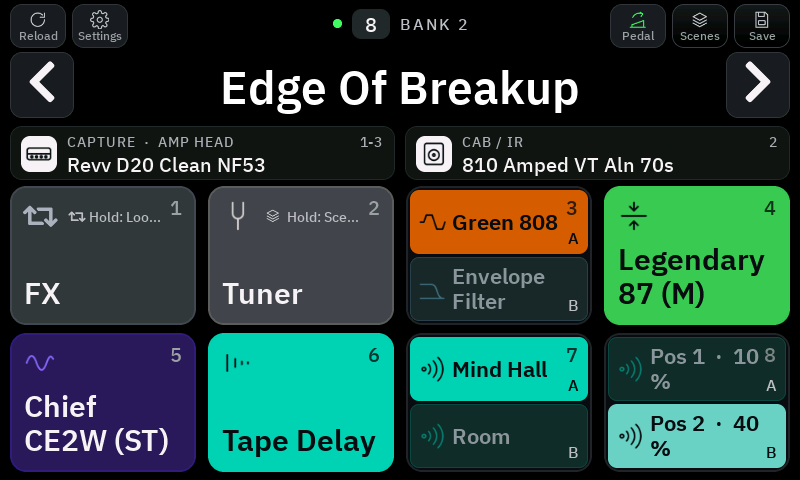
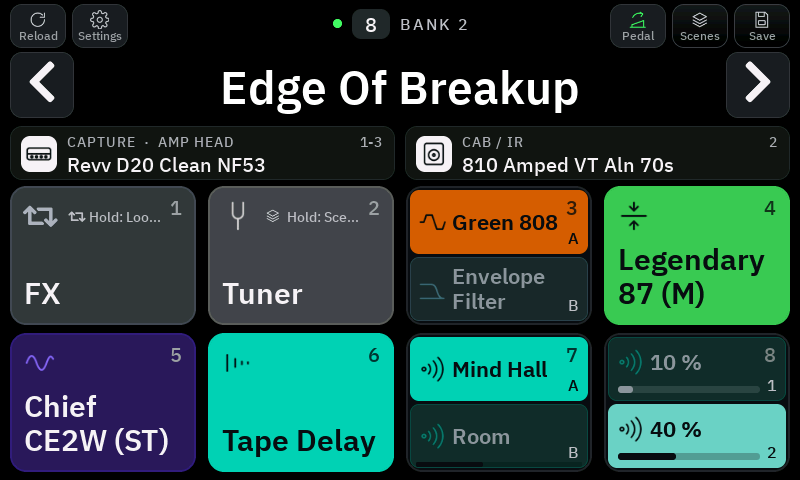
Editor strip shows A / B again; reverb mix as halves with per cent and bars, the reverb tile follows
The board sent the editor the texts on its screen: since the calm tiles the
captions were empty and an A / B tile had no name at all. Now the caption the
tile was given goes out, and a tile in two halves as two rows "A  name" /
"B  name" with the running one marked.

Footswitch 8 as the mix switch: the tile in two halves, Pos 1 / Pos 2 each with
its per cent and a fill bar, the one that is set lit (the user's choice C). The
reverb's own tile has a slim bar along its bottom with the mix it has now; it
follows footswitch 8.

Changed region(s): [[0.75, 0.7188, 0.9688, 0.9688], [0.5312, 0.9375, 0.5938, 1.0], [0.9062, 0.7188, 0.9688, 0.75]]

diff --git a/main/ui.c b/main/ui.c
@@ -181,12 +181,19 @@ static tile_pair_t s_tile_pair[TILES];
 // A slot with a second effect (and the reverb switch with two settings): the tile in two halves, A above and B below,
 // each with its symbol and name; the one that runs in its colour, the other one dimmed (user, 2026-11-13: "E geteilt")
 static bool s_tile_hint[TILES];   // the tile's line is a hint on holding its footswitch (not shown in the gig view)
+static char s_tile_caption_text[TILES][24];   // the caption a tile was given (the screen leaves it out; the editor shows it)
+// The reverb mix (user, 2026-11-13: "C"): footswitch 8 in two halves, Pos 1 / Pos 2 each with its per cent and a bar;
+// the reverb's own tile a slim bar along its bottom of the mix it has now (it follows footswitch 8)
+static float s_tile_fill[TILES];          // 0-1, < 0 = no bar
 typedef struct {
     bool shown, on;
     int runs;                              // 0 = A, 1 = B
     uint32_t color[2];
     const lv_image_dsc_t *icon[2];
     char names[2][24];
+    char letters[2];                       // at the right edge of each half (0: A / B)
+    bool fills;                            // each half has a bar of fill[n] (the reverb mix switch)
+    float fill[2];
 } tile_split_t;
 static tile_split_t s_tile_split[TILES];
 static int s_tile_marks[TILES];                 // 0 = none, else 0x200 | 0x100 if the tile is filled | bit n = FX slot n on
@@ -771,6 +778,25 @@ static void draw_split(lv_layer_t *layer, const lv_area_t *tile, int i)
             r.border_color = lv_color_hex(blend(c, SURF, 0.22f));
         }
         lv_draw_rect(layer, &r, &a);
+        int letter_y2 = a.y2 - 4;   // (the letter: at the half's bottom right, beside a bar)
+        if (sp->fills) {   // the half's mix bar along its bottom; the rest of the half for symbol and name
+            const int bh = 6;
+            lv_area_t track = { a.x1 + 10, a.y2 - 8 - bh, a.x2 - 26, a.y2 - 8 };
+            lv_draw_rect_dsc_t br;
+            lv_draw_rect_dsc_init(&br);
+            br.radius = bh / 2;
+            br.bg_color = lv_color_hex(ink);
+            br.bg_opa = 60;
+            lv_draw_rect(layer, &br, &track);
+            float f = sp->fill[n] < 0 ? 0 : sp->fill[n] > 1 ? 1 : sp->fill[n];
+            lv_area_t fill = track;
+            fill.x2 = track.x1 + (int)lroundf(f * lv_area_get_width(&track));
+            if (fill.x2 > fill.x1 + bh) {
+                br.bg_opa = LV_OPA_COVER;
+                lv_draw_rect(layer, &br, &fill);
+            }
+            a.y2 -= 8 + bh;   // (symbol and name above the bar)
+        }
         int h = lv_area_get_height(&a), x = a.x1 + 8;
         if (sp->icon[n]) {   // the symbol at 28 px (scaled from 36)
             const int size = h >= 80 ? 36 : 28, w = sp->icon[n]->header.w, ih = sp->icon[n]->header.h;
@@ -791,11 +817,13 @@ static void draw_split(lv_layer_t *layer, const lv_area_t *tile, int i)
         lv_draw_label_dsc_t l;
         lv_draw_label_dsc_init(&l);
         l.font = &ui_font_16;
-        l.text = n ? "B" : "A";
+        char letter[2] = { sp->letters[n] ? sp->letters[n] : n ? 'B' : 'A', 0 };
+        l.text = letter;
+        l.text_local = true;
         l.color = lv_color_hex(runs && sp->on ? ink : 0xB9BDC2);
         l.align = LV_TEXT_ALIGN_RIGHT;
         int llh = lv_font_get_line_height(l.font);
-        lv_area_t la = { a.x2 - 30, a.y2 - llh - 4, a.x2 - 9, a.y2 - 4 };
+        lv_area_t la = { a.x2 - 30, letter_y2 - llh, a.x2 - 9, letter_y2 };
         lv_draw_label(layer, &l, &la);
         // The name in up to two lines: the largest font it fits in
         static const lv_font_t *const FONTS[] = { &ui_font_title_30, &ui_font_title_26, &ui_font_title_22, &ui_font_20, &ui_font_16 };
@@ -824,9 +852,37 @@ static void draw_split(lv_layer_t *layer, const lv_area_t *tile, int i)
 }
 
 // A tile that is not active: its top row (symbol, caption, number) lies on the dimmed colour.
+// The reverb's mix as a slim bar along the bottom of its tile: a track and the fill up to the mix.
+static void draw_fill(lv_layer_t *layer, const lv_area_t *tile, int i)
+{
+    uint32_t ink = s_tile_active[i] ? s_tile_ink[i] : blend(s_tile_color[i], 0xFFFFFF, 0.7f);
+    const int pad = 10, h = 4;
+    lv_area_t track = { tile->x1 + pad, tile->y2 - 5 - h, tile->x2 - pad, tile->y2 - 5 };
+    lv_draw_rect_dsc_t r;
+    lv_draw_rect_dsc_init(&r);
+    r.radius = h / 2;
+    r.bg_color = lv_color_hex(ink);
+    r.bg_opa = 60;
+    lv_draw_rect(layer, &r, &track);
+    float f = s_tile_fill[i] > 1 ? 1 : s_tile_fill[i];
+    lv_area_t fill = track;
+    fill.x2 = track.x1 + (int)lroundf(f * lv_area_get_width(&track));
+    if (fill.x2 > fill.x1 + h) {
+        r.bg_opa = LV_OPA_COVER;
+        lv_draw_rect(layer, &r, &fill);
+    }
+}
+
 static void on_tile_draw(lv_event_t *e)
 {
     int i = (int)(intptr_t)lv_event_get_user_data(e);
+    if (s_tile_fill[i] >= 0) {
+        lv_area_t a;
+        lv_obj_get_coords(lv_event_get_current_target_obj(e), &a);
+        if (s_tile_split[i].shown) draw_split(lv_event_get_layer(e), &a, i);
+        draw_fill(lv_event_get_layer(e), &a, i);
+        return;
+    }
     if (s_tile_split[i].shown) {
         lv_area_t a;
         lv_obj_get_coords(lv_event_get_current_target_obj(e), &a);
@@ -1166,6 +1222,7 @@ static void set_tile(int i, const char *caption, const char *name, uint32_t colo
     s_tile_pedal_type[i] = 0;   // set again by set_tile_pedal / set_tile_other, shown by show_tile_extras
     s_tile_other_type[i] = 0;
     s_tile_hint[i] = false;
+    s_tile_fill[i] = -1;
     s_tile_note[i] = NULL;
     s_tile_note_icon[i] = NULL;
     s_tile_marks[i] = 0;        // set again by show_scene_tiles
@@ -1208,6 +1265,7 @@ static void set_tile(int i, const char *caption, const char *name, uint32_t colo
     for (; caption[n] && n < sizeof(upper) - 1; n++) upper[n] = (char)((caption[n] >= 'a' && caption[n] <= 'z') ? caption[n] - 32 : caption[n]);
     upper[n] = 0;
     set_text(s_tile_caption[i], upper);
+    strlcpy(s_tile_caption_text[i], upper, sizeof(s_tile_caption_text[i]));
     set_color_prop(s_tile_caption[i], LV_STYLE_TEXT_COLOR, active ? ink : empty ? MUTED : 0xB9BDC2);
     set_num_prop(s_tile_caption[i], LV_STYLE_TEXT_OPA, active ? 230 : LV_OPA_COVER);
     set_color_prop(s_tile_number[i], LV_STYLE_TEXT_COLOR, active ? ink : empty ? 0x5D6267 : 0x9AA0A6);
@@ -1231,8 +1289,10 @@ static void show_tile_extras(void)
     for (int i = 0; i < TILES; i++) {
         static tile_pair_t drawn_pair[TILES];
         static tile_split_t drawn_split[TILES];
+        static float drawn_fill[TILES];
         if (s_tile_marks[i] != drawn_marks[i] || (types_changed && s_tile_marks[i]) || memcmp(&s_tile_pair[i], &drawn_pair[i], sizeof(drawn_pair[i]))
-            || memcmp(&s_tile_split[i], &drawn_split[i], sizeof(drawn_split[i]))) {
+            || memcmp(&s_tile_split[i], &drawn_split[i], sizeof(drawn_split[i])) || drawn_fill[i] != s_tile_fill[i]) {
+            drawn_fill[i] = s_tile_fill[i];
             drawn_marks[i] = s_tile_marks[i];
             drawn_pair[i] = s_tile_pair[i];
             drawn_split[i] = s_tile_split[i];
@@ -4556,7 +4616,7 @@ static void show_fx_tiles(const nano_state_t *st, const ui_view_t *view)
             uint32_t a_type = b_runs ? view->ab_a_type[slot] : st->fx_type[slot], b_type = view->ab_b_type[slot];
             const nano_fx_model_t *ma = nano_fx_model(a_type), *mb = nano_fx_model(b_type);
             const char *a_name = a_type ? nano_fx_name(a_type) : "A", *b_name = a_type == b_type ? "2nd setting" : nano_fx_name(b_type);
-            set_tile(2 + slot, "", "", color, on, false, NULL, NULL);
+            set_tile(2 + slot, NANO_FX_SLOT_NAMES[slot], "", color, on, false, NULL, NULL);   // (the caption: for the editor)
             tile_split_t *sp = &s_tile_split[2 + slot];
             sp->shown = true;
             sp->on = on;
@@ -4621,17 +4681,32 @@ static void show_fx_tiles(const nano_state_t *st, const ui_view_t *view)
     } else if (!view->mix_known) {
         set_tile(7, "REV MIX", "No Pos 1/2", 0x00FFDD, false, true, icon, NULL);
     } else {
-        // The mix switch: Pos 1 and Pos 2 as rows with their mix, the one that is set filled (none: as the preset has it)
+        // The mix switch: Pos 1 and Pos 2 as the tile's halves with their mix, the one that is set lit (none: as the preset has it)
         int slot = view->mix_slot;
         const nano_fx_model_t *model = nano_fx_model(st->fx_type[slot]);
         uint32_t color = model ? model->color : 0x00FFDD;
-        set_tile(7, "REV MIX", "", color, st->fx_on[slot], false, model ? NANO_ICONS[model->icon] : icon, NULL);
-        s_tile_pair[7].shown = true;
-        s_tile_pair[7].on = st->fx_on[slot];
-        s_tile_pair[7].active = view->mix_active == 1 ? 1 : view->mix_active == 0 ? 0 : -1;
-        s_tile_pair[7].color = color;
-        for (int k = 0; k < 2; k++) {
-            snprintf(s_tile_pair[7].names[k], sizeof(s_tile_pair[7].names[k]), "Pos %d  \xC2\xB7  %d %%", k + 1, (int)lroundf(view->mix_pos[k] * 100));
+        {   // the halves (as the A / B slots), each Pos with its per cent and a bar; the reverb's own tile follows
+            int a = view->mix_active;
+            set_tile(7, "REV MIX", "", color, st->fx_on[slot], false, NULL, NULL);
+            tile_split_t *sp = &s_tile_split[7];
+            sp->shown = true;
+            sp->on = st->fx_on[slot];
+            sp->runs = a == 1 ? 1 : 0;
+            sp->fills = true;
+            for (int k = 0; k < 2; k++) {
+                sp->color[k] = k ? blend(color, 0xFFFFFF, 0.5f) : color;
+                sp->icon[k] = model ? NANO_ICONS[model->icon] : icon;
+                sp->fill[k] = view->mix_pos[k];
+                sp->letters[k] = k ? '2' : '1';
+                snprintf(sp->names[k], sizeof(sp->names[k]), "%d %%", (int)lroundf(view->mix_pos[k] * 100));
+            }
+            if (a != 0 && a != 1) sp->runs = -1;   // as the preset has it: neither half lit
+            set_color_prop(s_tile_number[7], LV_STYLE_TEXT_COLOR, sp->runs == 0 && sp->on ? ink_for(blend(color, SURF, 0.80f)) : 0x9AA0A6);
+            set_color_prop(s_tile[7], LV_STYLE_BG_COLOR, 0x0D0E10);
+            set_color_prop(s_tile[7], LV_STYLE_BORDER_COLOR, 0x24272B);
+            if (a == 0 || a == 1) {
+                s_tile_fill[2 + slot] = view->mix_pos[a];
+            }
         }
     }
     if (view->mix_slot >= 0 && view->mix_known) set_tile_pedal(7, st->fx_type[view->mix_slot]);
@@ -6910,7 +6985,7 @@ bool ui_tiles_get(ui_tile_info_t tiles[TILES], ui_view_t *view)
     for (int i = 0; i < TILES && drawn; i++) {
         ui_tile_info_t *t = &tiles[i];
         memset(t, 0, sizeof(*t));
-        plain_copy(t->caption, sizeof(t->caption), lv_label_get_text(s_tile_caption[i]));
+        plain_copy(t->caption, sizeof(t->caption), s_tile_caption_text[i]);   // (the screen shows no captions)
         plain_copy(t->name, sizeof(t->name), lv_label_get_text(s_tile_name[i]));
         plain_copy(t->note, sizeof(t->note), s_tile_note[i]);
         t->color = s_tile_color[i];
@@ -6920,6 +6995,16 @@ bool ui_tiles_get(ui_tile_info_t tiles[TILES], ui_view_t *view)
             t->flags |= UI_TILE_ROWS | (s_tile_pair[i].on ? UI_TILE_ROWS_ON : 0);
             t->row_active = (int8_t)s_tile_pair[i].active;
             for (int r = 0; r < 2; r++) plain_copy(t->rows[r], sizeof(t->rows[r]), s_tile_pair[i].names[r]);
+        } else if (s_tile_split[i].shown) {   // A / B in two halves: to the editor as two rows "A  name", "B  name"
+            const tile_split_t *sp = &s_tile_split[i];
+            t->flags |= UI_TILE_ROWS | (sp->on ? UI_TILE_ROWS_ON : 0);
+            t->row_active = (int8_t)sp->runs;
+            plain_copy(t->name, sizeof(t->name), sp->runs >= 0 ? sp->names[sp->runs] : "");   // (-1: neither half runs)
+            for (int r = 0; r < 2; r++) {
+                char row[32];
+                snprintf(row, sizeof(row), "%c  %s", sp->letters[r] ? sp->letters[r] : r ? 'B' : 'A', sp->names[r]);
+                plain_copy(t->rows[r], sizeof(t->rows[r]), row);
+            }
         }
     }
     if (drawn && view) *view = s_view;
